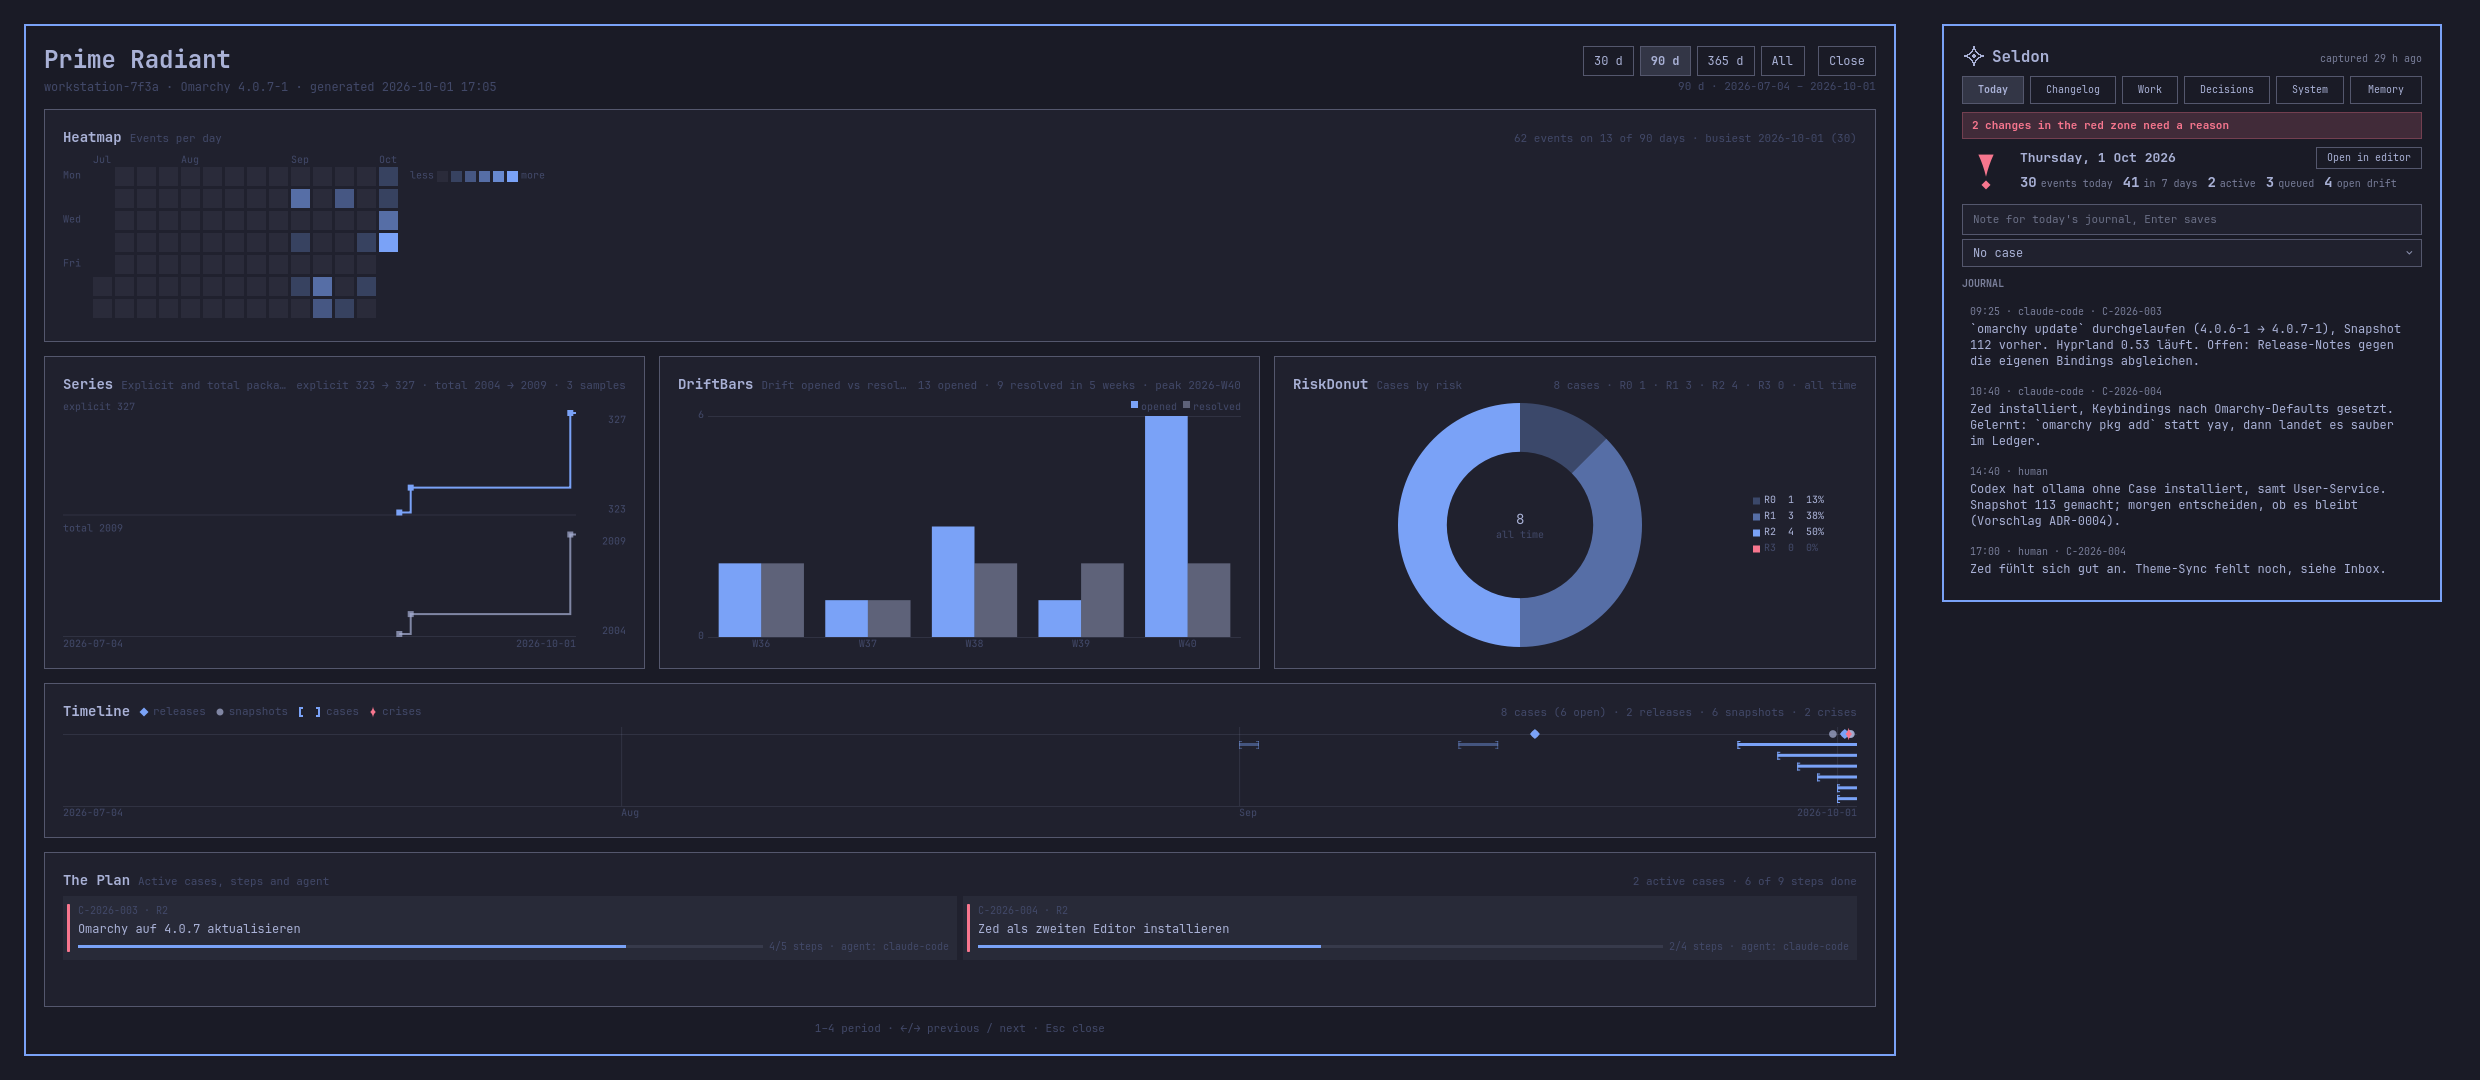
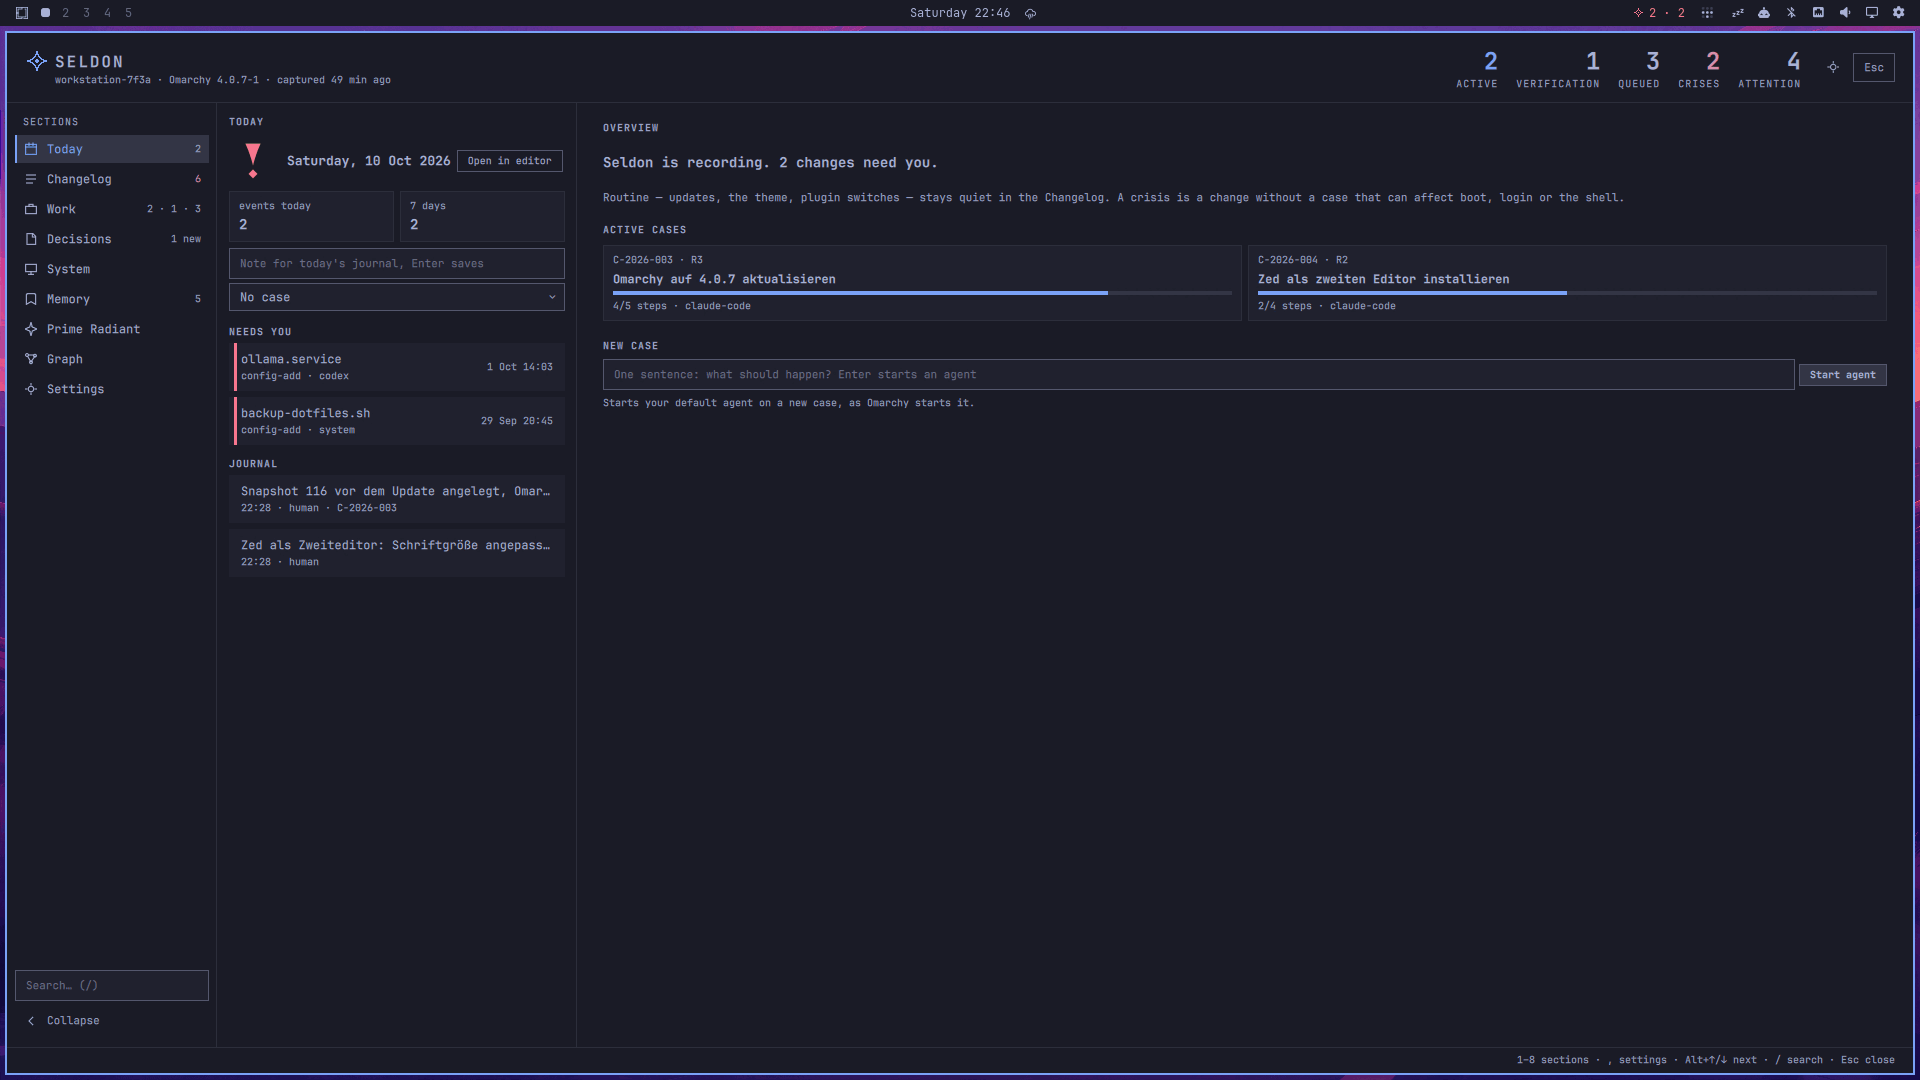
docs: the desk's pictures from the test host replace the 0.1 panel and overlay renders (WP-126b)
docs/images/desk-tokyo-night-*.png (12) and plugin/preview.png are
screenshots of the desk in a live Omarchy shell on the test host, sample
logbook, Tokyo Night, rounding 0; the triage proposal, which only a
click opens, is the headless harness's render. Every TODO(WP-126b)
marker in the guide (en, de) and both READMEs is the picture now, with
its alt text. The old panel-*.png and overlay-*.png are deleted (nothing
references them). TESTING.md says how the pictures are made; STYLE.md's
screenshot rule follows.

diff --git a/README.md b/README.md
@@ -9,10 +9,9 @@ for your Omarchy system.
 [![Release](https://img.shields.io/github/v/release/JohnAndrewsX/jax-seldon)](https://github.com/JohnAndrewsX/jax-seldon/releases/latest)
 [![Licence: MIT](https://img.shields.io/github/license/JohnAndrewsX/jax-seldon)](LICENSE)
 
-<!-- TODO(WP-126b) preview.png: reshoot as the desk (Today at 100 %, sample index, Tokyo Night) and rewrite this alt text; the current file shows the 0.1 panel and overlay -->
-![Preview, 2480×1080: the Prime Radiant at 1920×1080 on the left, the panel's Today tab framed on the right, Tokyo Night](preview.png)
+![Preview, 1920×1080: the desk on Today at full width, Tokyo Night, sample data: the header with its counts, the sidebar with the nine sections, NEEDS YOU, today's journal and the active cases](preview.png)
 
-*Offscreen renders of the real QML on the sample index, Tokyo Night theme.*
+*A screenshot of the plugin in a live Omarchy shell on the sample logbook, Tokyo Night theme.*
 
 The Seldon engine records what changes on your machine (packages, Omarchy
 updates, themes, plugins, snapshots, config) in a plain-Markdown logbook
@@ -170,7 +169,7 @@ sections and their counts and the search (`/`); then the section's list
 and the detail of the selected row, its actions in a bar at the top that
 stays while the detail scrolls.
 
-<!-- TODO(WP-126b) screenshot: docs/images/desk-tokyo-night-today.png; the desk at 100 % on Today, sample index, Tokyo Night -->
+The picture at the top of this page shows the desk on Today.
 
 | # | Section | Lists | Actions |
 |---|---|---|---|
